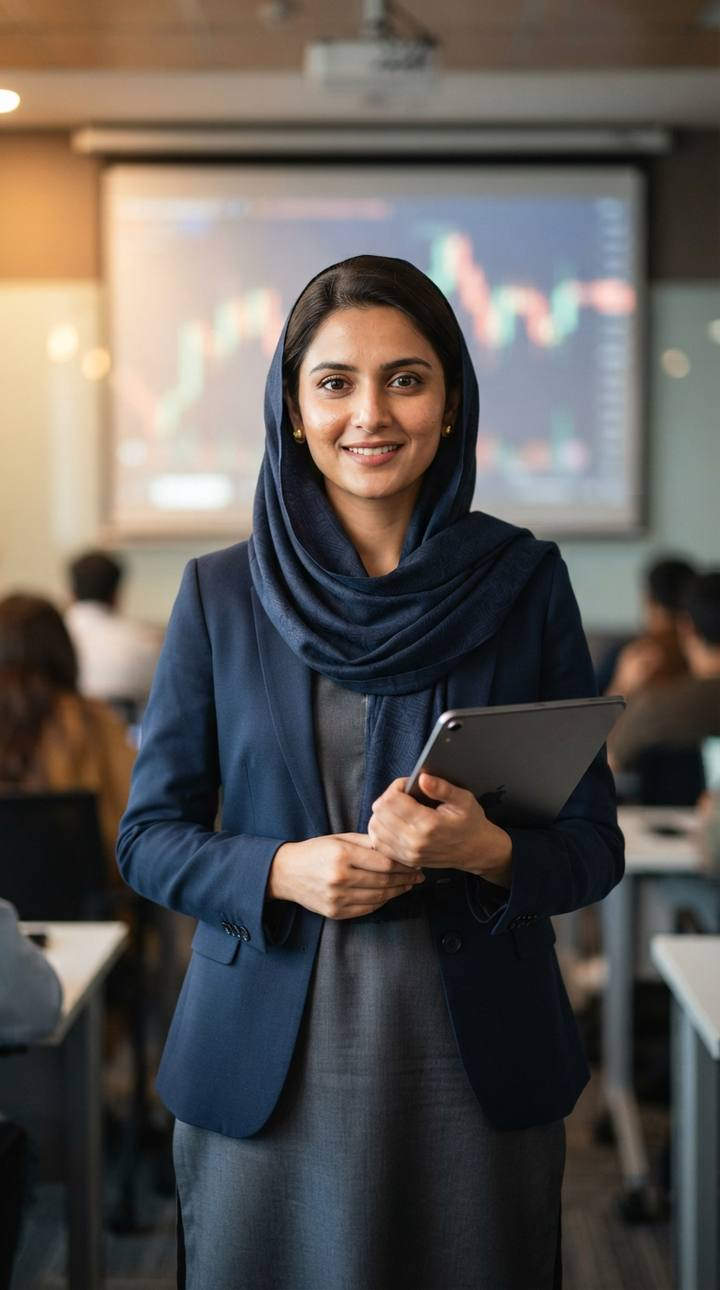
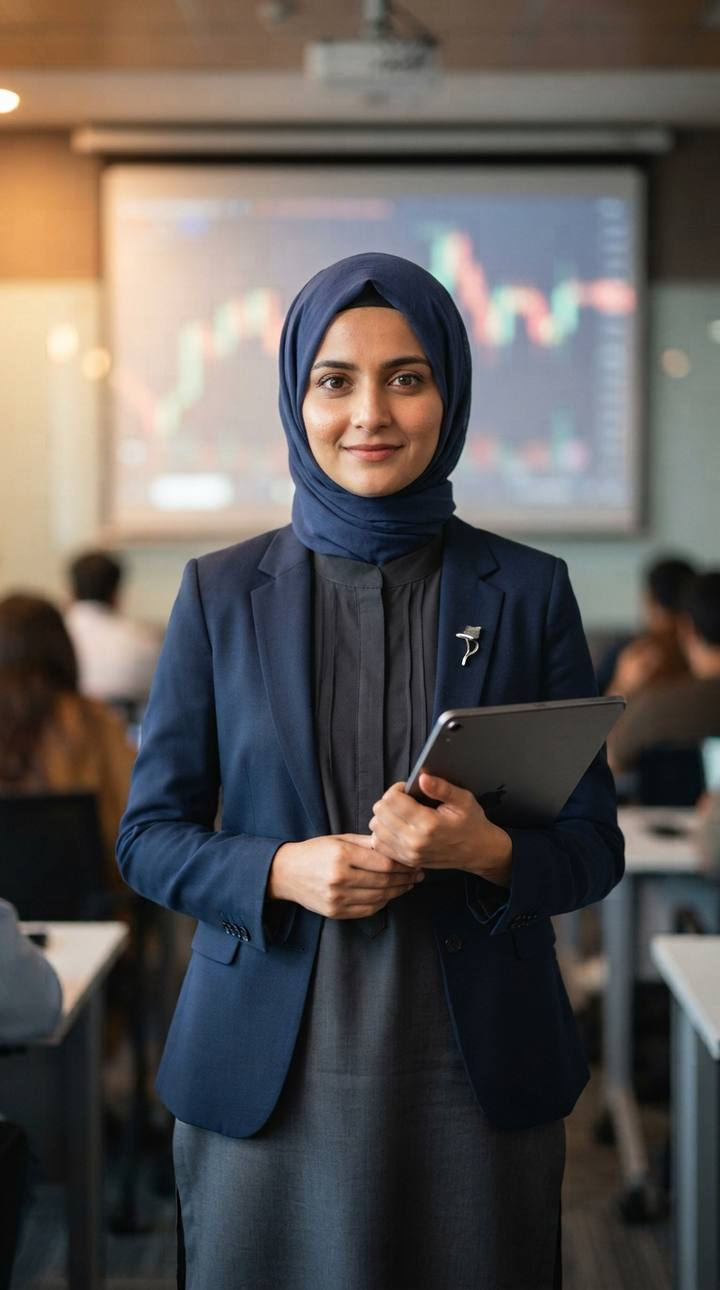
Update Ayesha portrait
Claude-Session: https://claude.ai/code/session_01DGaVK9by3QpgnXxDFWhUw4

Changed region(s): [[0.3361, 0.186, 0.7944, 0.6512], [0.4583, 0.7132, 0.5194, 0.8062], [0.55, 0.7132, 0.5806, 0.7752]]

diff --git a/sw.js b/sw.js
@@ -1,5 +1,5 @@
 /* TradeVerse service worker: offline-first app shell. Bump VERSION when files change. */
-const VERSION = "sukoon-v18";
+const VERSION = "sukoon-v19";
 const SHELL = ["./", "./index.html", "./manifest.webmanifest", "./icons/icon-192.png", "./icons/icon-512.png"];
 self.addEventListener("install", e => { e.waitUntil(caches.open(VERSION).then(c => c.addAll(SHELL)).then(() => self.skipWaiting())); });
 self.addEventListener("activate", e => { e.waitUntil(caches.keys().then(ks => Promise.all(ks.filter(k => k !== VERSION).map(k => caches.delete(k)))).then(() => self.clients.claim())); });
